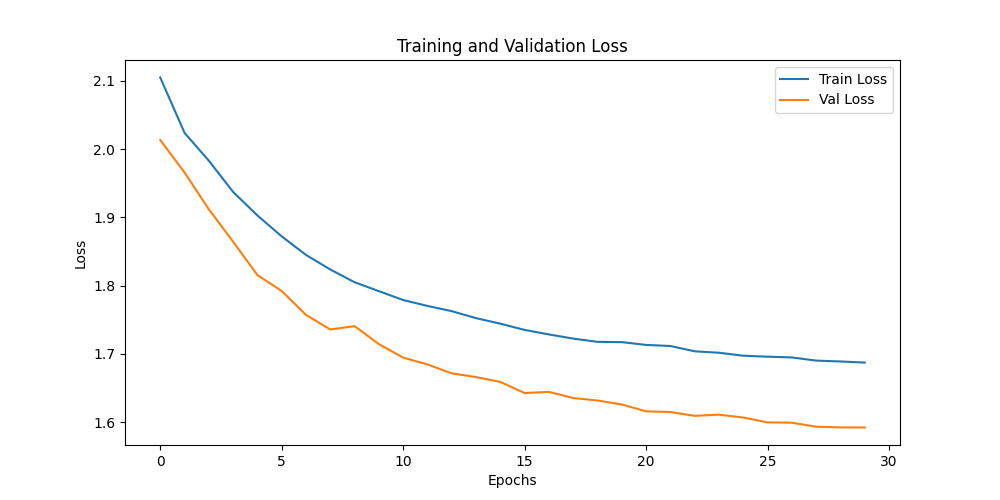
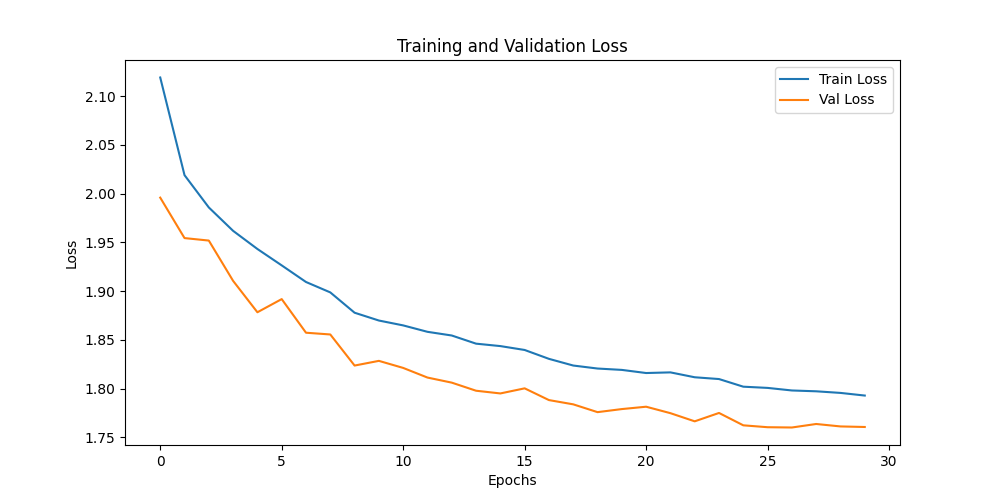
pl4_entrenado30

diff --git a/src/exercise_04/model.py b/src/exercise_04/model.py
@@ -3,36 +3,43 @@ import torch.nn as nn
 
 
 class Cifar10CNN(nn.Module):
-    """CNN optimizado para sistemas con recursos limitados usando Global Average Pooling."""
+    """VGG‑like network with two convolutional blocks and softmax output.
+
+    Each block follows the VGG pattern: conv→ReLU→pool. The first block
+    produces 16 channels, the second 32. After pooling, a small classifier
+    flattens the features and applies two linear layers, finishing with a
+    softmax to yield class probabilities.
+    """
 
     def __init__(self, num_classes=10):
         super().__init__()
 
-        # Feature extractor con menos canales para reducir parámetros
-        # Reducimos de 16->32 canales a 8->16 canales
+        # two VGG blocks
         self.features = nn.Sequential(
-            nn.Conv2d(3, 8, kernel_size=3, padding=1),
-            nn.ReLU(),
-            nn.Conv2d(8, 16, kernel_size=3, padding=1),
-            nn.ReLU(),
+            # block 1: 3 -> 16
+            nn.Conv2d(3, 16, kernel_size=3, padding=1),
+            nn.ReLU(inplace=True),
+            nn.MaxPool2d(kernel_size=2, stride=2),
+            # block 2: 16 -> 32
+            nn.Conv2d(16, 32, kernel_size=3, padding=1),
+            nn.ReLU(inplace=True),
             nn.MaxPool2d(kernel_size=2, stride=2),
         )
 
-        # Global Average Pooling para reducir drasticamente los parámetros
-        # Convierte feature maps de [B, 16, 16, 16] a [B, 16, 1, 1]
-        self.global_avg_pool = nn.AdaptiveAvgPool2d((1, 1))
-
-        # Clasificador mucho más simple y liviano
+        # classifier after two pools: feature map size 32 x 8 x 8
         self.classifier = nn.Sequential(
-            nn.Flatten(),  # [B, 16, 1, 1] -> [B, 16]
-            nn.Dropout(p=0.2),  # Menor dropout porque el modelo es más simple
-            nn.Linear(16, num_classes),  # Directamente de 16 a 10 clases
+            nn.Flatten(),
+            nn.Linear(32 * 8 * 8, 256),
+            nn.ReLU(inplace=True),
+            nn.Dropout(p=0.3),
+            nn.Linear(256, num_classes),
+            nn.Softmax(dim=1),
         )
 
     def forward(self, x):
         x = self.features(x)
-        x = self.global_avg_pool(x)  # Reduce spatial dimensions to 1x1
-        return self.classifier(x)
+        x = self.classifier(x)
+        return x
 
 
 if __name__ == "__main__":

diff --git a/src/exercise_04/evaluate.py b/src/exercise_04/evaluate.py
@@ -67,7 +67,7 @@ def evaluate_and_plot(loader, model, dataset_name, class_names, output_folder, d
     # Confusion matrix plot
     plt.figure(figsize=(10, 8))
     sns.heatmap(
-        cm, annot=False, fmt="d", cmap="Blues", xticklabels=class_names, yticklabels=class_names
+        cm, annot=True, fmt="d", cmap="Blues", xticklabels=class_names, yticklabels=class_names
     )
     plt.xlabel("Predicted")
     plt.ylabel("True")

diff --git a/src/exercise_04/train.py b/src/exercise_04/train.py
@@ -102,7 +102,7 @@ def train_model(output_folder: Path, device: torch.device):
     scheduler = optim.lr_scheduler.StepLR(optimizer, step_size=8, gamma=0.7)
 
     # Menos épocas para entrenamiento más rápido
-    num_epochs = 30
+    num_epochs = 60
     best_val_acc = 0.0
     best_model_path = output_folder / "best_model.pth"
 
